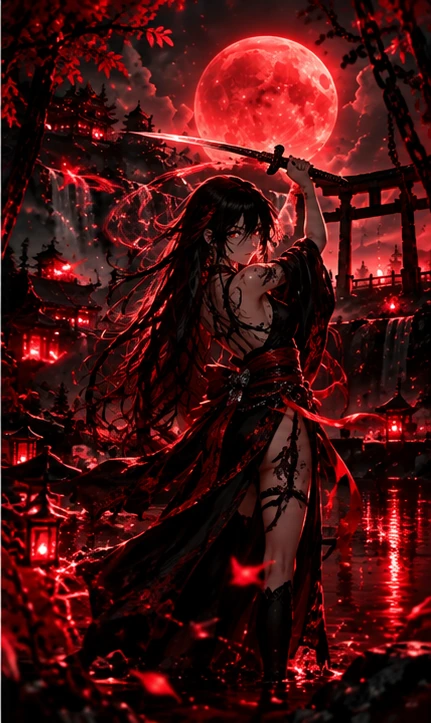
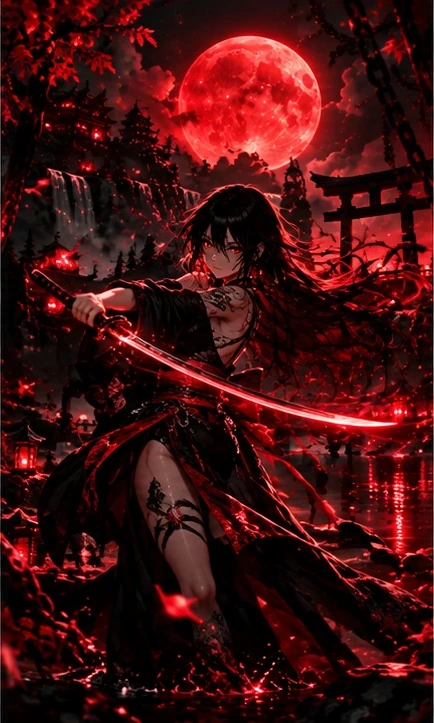
Update Music_Z site

diff --git a/src/styles.css b/src/styles.css
@@ -251,7 +251,7 @@ button img, a img {
   object-fit: cover;
   object-position: 52% 28%;
   opacity: 0;
-  transition: opacity 0.22s ease-in-out;
+  transition: opacity 0.28s ease-in-out;
   pointer-events: none;
   -webkit-user-drag: none;
   user-select: none;
@@ -260,12 +260,12 @@ button img, a img {
 .side-fx-frame.is-on {
   opacity: 1;
   z-index: 2;
-  transition: opacity 0.18s ease-in;
+  transition: opacity 0.22s ease-in;
 }
 .side-fx-frame.is-exit {
   opacity: 0;
   z-index: 1;
-  transition: opacity 0.24s ease-out;
+  transition: opacity 0.3s ease-out;
 }
 .side-fx-veil {
   position: absolute;
@@ -439,11 +439,6 @@ button img, a img {
   --n-o: calc(var(--energy, 0) * 0.65 + var(--kick, 0) * 0.35);
   --n-y: calc((0.45 - var(--energy, 0)) * 8);
 }
-.side-viz-nodes i:nth-child(3) {
-  --n-s: calc(0.7 + var(--kick, 0) * 1.1 + var(--beat, 0) * 0.25);
-  --n-o: calc(0.25 + var(--kick, 0) * 0.75);
-  --n-y: calc((0.35 - var(--kick, 0)) * 10);
-}
 .side-viz-nodes i:nth-child(4) {
   --n-s: calc(0.55 + var(--voice, 0) * 0.8 + var(--bass, 0) * 0.25);
   --n-o: calc(var(--voice, 0) * 0.7 + var(--beat, 0) * 0.2);
@@ -453,6 +448,70 @@ button img, a img {
   --n-s: calc(0.55 + var(--beat, 0) * 0.75 + var(--energy, 0) * 0.35);
   --n-o: calc(var(--beat, 0) * 0.65 + var(--energy, 0) * 0.25);
   --n-y: calc((0.5 - var(--beat, 0)) * 6);
+}
+
+/* Center orb — beat heart of the strip */
+.side-viz-core {
+  position: relative;
+  width: 11px !important;
+  height: 11px !important;
+  background: transparent !important;
+  box-shadow: none !important;
+  opacity: 1 !important;
+  transform: translateY(calc(var(--n-y, 0) * 1px)) scale(1) !important;
+  --n-s: 1;
+  --n-o: 1;
+  --n-y: calc((0.3 - var(--kick, 0)) * 8);
+}
+.side-viz-core b {
+  position: absolute;
+  inset: 0;
+  border-radius: 50%;
+  background: radial-gradient(circle at 35% 30%, #ff6b6b, #e10600 55%, #7a0000);
+  box-shadow:
+    0 0 0 1px rgba(255, 80, 80, 0.45),
+    0 0 calc(6px + var(--kick, 0) * 16px) rgba(255, 30, 30, calc(0.35 + var(--kick, 0) * 0.55));
+  transform: scale(calc(0.85 + var(--kick, 0) * 0.55 + var(--beat, 0) * 0.2));
+  transition: transform 0.07s linear, box-shadow 0.08s linear;
+}
+.side-viz-ring {
+  position: absolute;
+  left: 50%;
+  top: 50%;
+  width: 11px;
+  height: 11px;
+  margin: -5.5px 0 0 -5.5px;
+  border-radius: 50%;
+  border: 1.5px solid rgba(255, 60, 60, 0.85);
+  opacity: 0;
+  pointer-events: none;
+  transform: scale(0.6);
+}
+.side-viz-core.is-hit b {
+  animation: side-viz-core-punch 0.28s ease-out;
+}
+.side-viz-core.is-hit .side-viz-ring {
+  animation: side-viz-ring-burst 0.55s ease-out;
+}
+.side-viz-core.is-hit .side-viz-ring--late {
+  animation-delay: 0.07s;
+}
+@keyframes side-viz-core-punch {
+  0% { transform: scale(0.75); }
+  35% { transform: scale(1.55); }
+  100% { transform: scale(calc(0.85 + var(--kick, 0) * 0.4)); }
+}
+@keyframes side-viz-ring-burst {
+  0% { opacity: 0.9; transform: scale(0.55); }
+  100% { opacity: 0; transform: scale(3.2); }
+}
+.side-viz.is-paused .side-viz-core b {
+  transform: scale(0.7);
+  box-shadow: 0 0 0 1px rgba(225, 6, 0, 0.3);
+}
+.side-viz.is-paused .side-viz-ring {
+  animation: none;
+  opacity: 0;
 }
 
 /* Idle / paused — calm dormant signal */

diff --git a/src/main.ts b/src/main.ts
@@ -81,6 +81,10 @@ function warmCharacterCache(): void {
     "side-samurai/03.webp",
     "side-samurai/04.webp",
     "side-samurai/05.webp",
+    "side-samurai/06.webp",
+    "side-samurai/07.webp",
+    "side-samurai/08.webp",
+    "side-samurai/09.webp",
   ]);
 }
 if (typeof requestIdleCallback === "function") {
@@ -182,12 +186,12 @@ function render(tracks: Track[]): void {
       <aside class="side" data-side>
         <div class="side-fx" aria-hidden="true">
           <div class="side-fx-stage">
-            ${[1, 2, 3, 4, 5]
+            ${[1, 2, 3, 4, 5, 6, 7, 8, 9]
               .map(
                 (n) => `
               <img
                 class="side-fx-frame"
-                src="${assetUrl(`side-samurai/0${n}.webp`, BUILD)}"
+                src="${assetUrl(`side-samurai/${String(n).padStart(2, "0")}.webp`, BUILD)}"
                 alt=""
                 draggable="false"
                 decoding="async"
@@ -240,7 +244,15 @@ function render(tracks: Track[]): void {
               />
             </svg>
             <div class="side-viz-nodes">
-              <i></i><i></i><i></i><i></i><i></i>
+              <i></i>
+              <i></i>
+              <i class="side-viz-core" data-viz-core>
+                <span class="side-viz-ring" aria-hidden="true"></span>
+                <span class="side-viz-ring side-viz-ring--late" aria-hidden="true"></span>
+                <b></b>
+              </i>
+              <i></i>
+              <i></i>
             </div>
           </div>
           © ${new Date().getFullYear()} Music_Z
@@ -935,7 +947,15 @@ function render(tracks: Track[]): void {
   let charCycle: CharacterCycle | null = null;
   const sideSamurai = new SideSamurai();
   sideSamurai.bind(app);
-  beat.setBeatHandler((beatIndex, bpm) => sideSamurai.onBeat(beatIndex, bpm));
+  beat.setBeatHandler((beatIndex, bpm) => {
+    sideSamurai.onBeat(beatIndex, bpm);
+    const core = app.querySelector<HTMLElement>("[data-viz-core]");
+    if (!core || !app.classList.contains("is-playing")) return;
+    core.classList.remove("is-hit");
+    // restart CSS hit animation
+    void core.offsetWidth;
+    core.classList.add("is-hit");
+  });
 
   const player = new AudioPlayer({
     onChange: (track, isPlaying) => {

diff --git a/src/lib/side-samurai.ts b/src/lib/side-samurai.ts
@@ -33,13 +33,12 @@ export class SideSamurai {
   onBeat(beatIndex: number, bpm: number): void {
     if (!this.playing || this.frames.length < 2) return;
 
-    // Slow tracks: every beat. Faster: every 2 beats (half-note poses).
-    const every = bpm >= 112 ? 2 : 1;
+    // More frames → step every beat for fluid dance; only skip on very fast tempos
+    const every = bpm >= 132 ? 2 : 1;
     if (beatIndex % every !== 0) return;
 
     const now = performance.now();
-    // Hard floor so we never stutter even if grid double-fires
-    if (now - this.lastStepAt < 240) return;
+    if (now - this.lastStepAt < 180) return;
     this.lastStepAt = now;
     this.step();
   }
@@ -75,7 +74,7 @@ export class SideSamurai {
       if (idx === prev && prev !== this.index) {
         el.classList.add("is-exit");
         el.classList.remove("is-on");
-        window.setTimeout(() => el.classList.remove("is-exit"), 260);
+        window.setTimeout(() => el.classList.remove("is-exit"), 320);
       } else if (on) {
         el.classList.add("is-on");
         el.classList.remove("is-exit");

diff --git a/public/sw.js b/public/sw.js
@@ -36,6 +36,10 @@ const PRECACHE = [
   "./side-samurai/03.webp",
   "./side-samurai/04.webp",
   "./side-samurai/05.webp",
+  "./side-samurai/06.webp",
+  "./side-samurai/07.webp",
+  "./side-samurai/08.webp",
+  "./side-samurai/09.webp",
 ];
 
 self.addEventListener("install", (event) => {
@@ -160,7 +164,7 @@ self.addEventListener("fetch", (event) => {
     /\/character\.png$/i.test(path) ||
     /\/hero-banner\.png$/i.test(path) ||
     /\/bg-japan-(dim|lit)\.(jpg|webp)$/i.test(path) ||
-    /\/side-samurai\/0[1-5]\.webp$/i.test(path) ||
+    /\/side-samurai\/0[1-9]\.webp$/i.test(path) ||
     /\/logo\.png$/i.test(path) ||
     /\/favicon\.(svg|png)$/i.test(path)
   ) {
